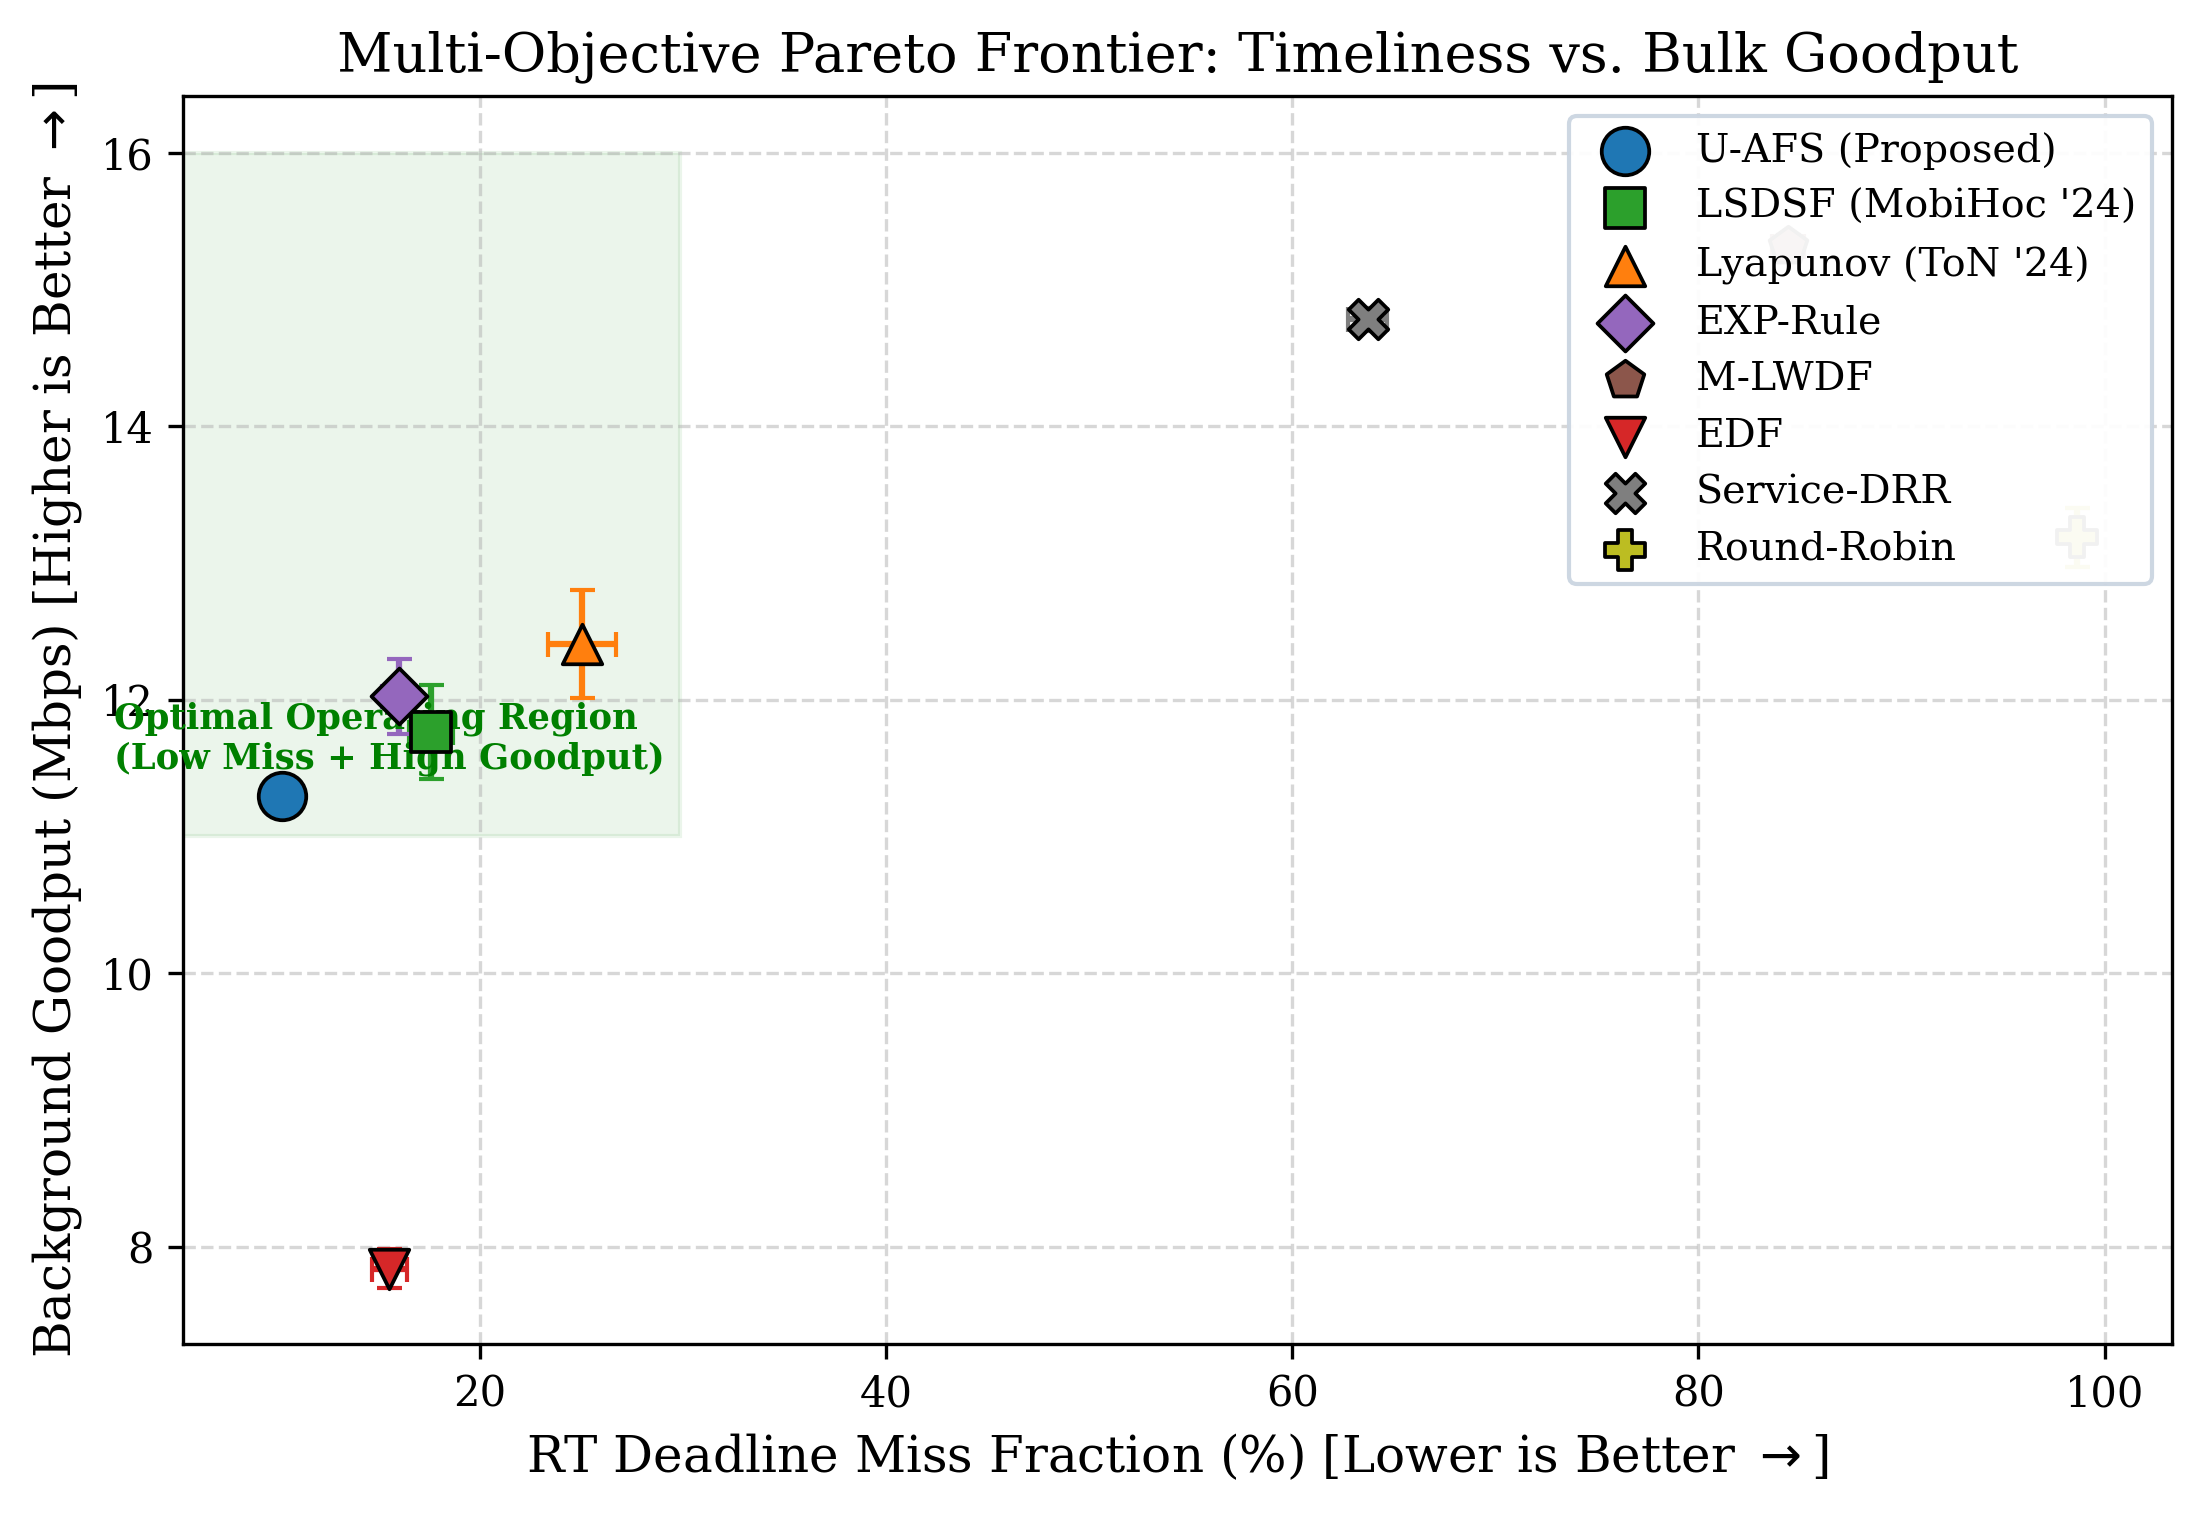
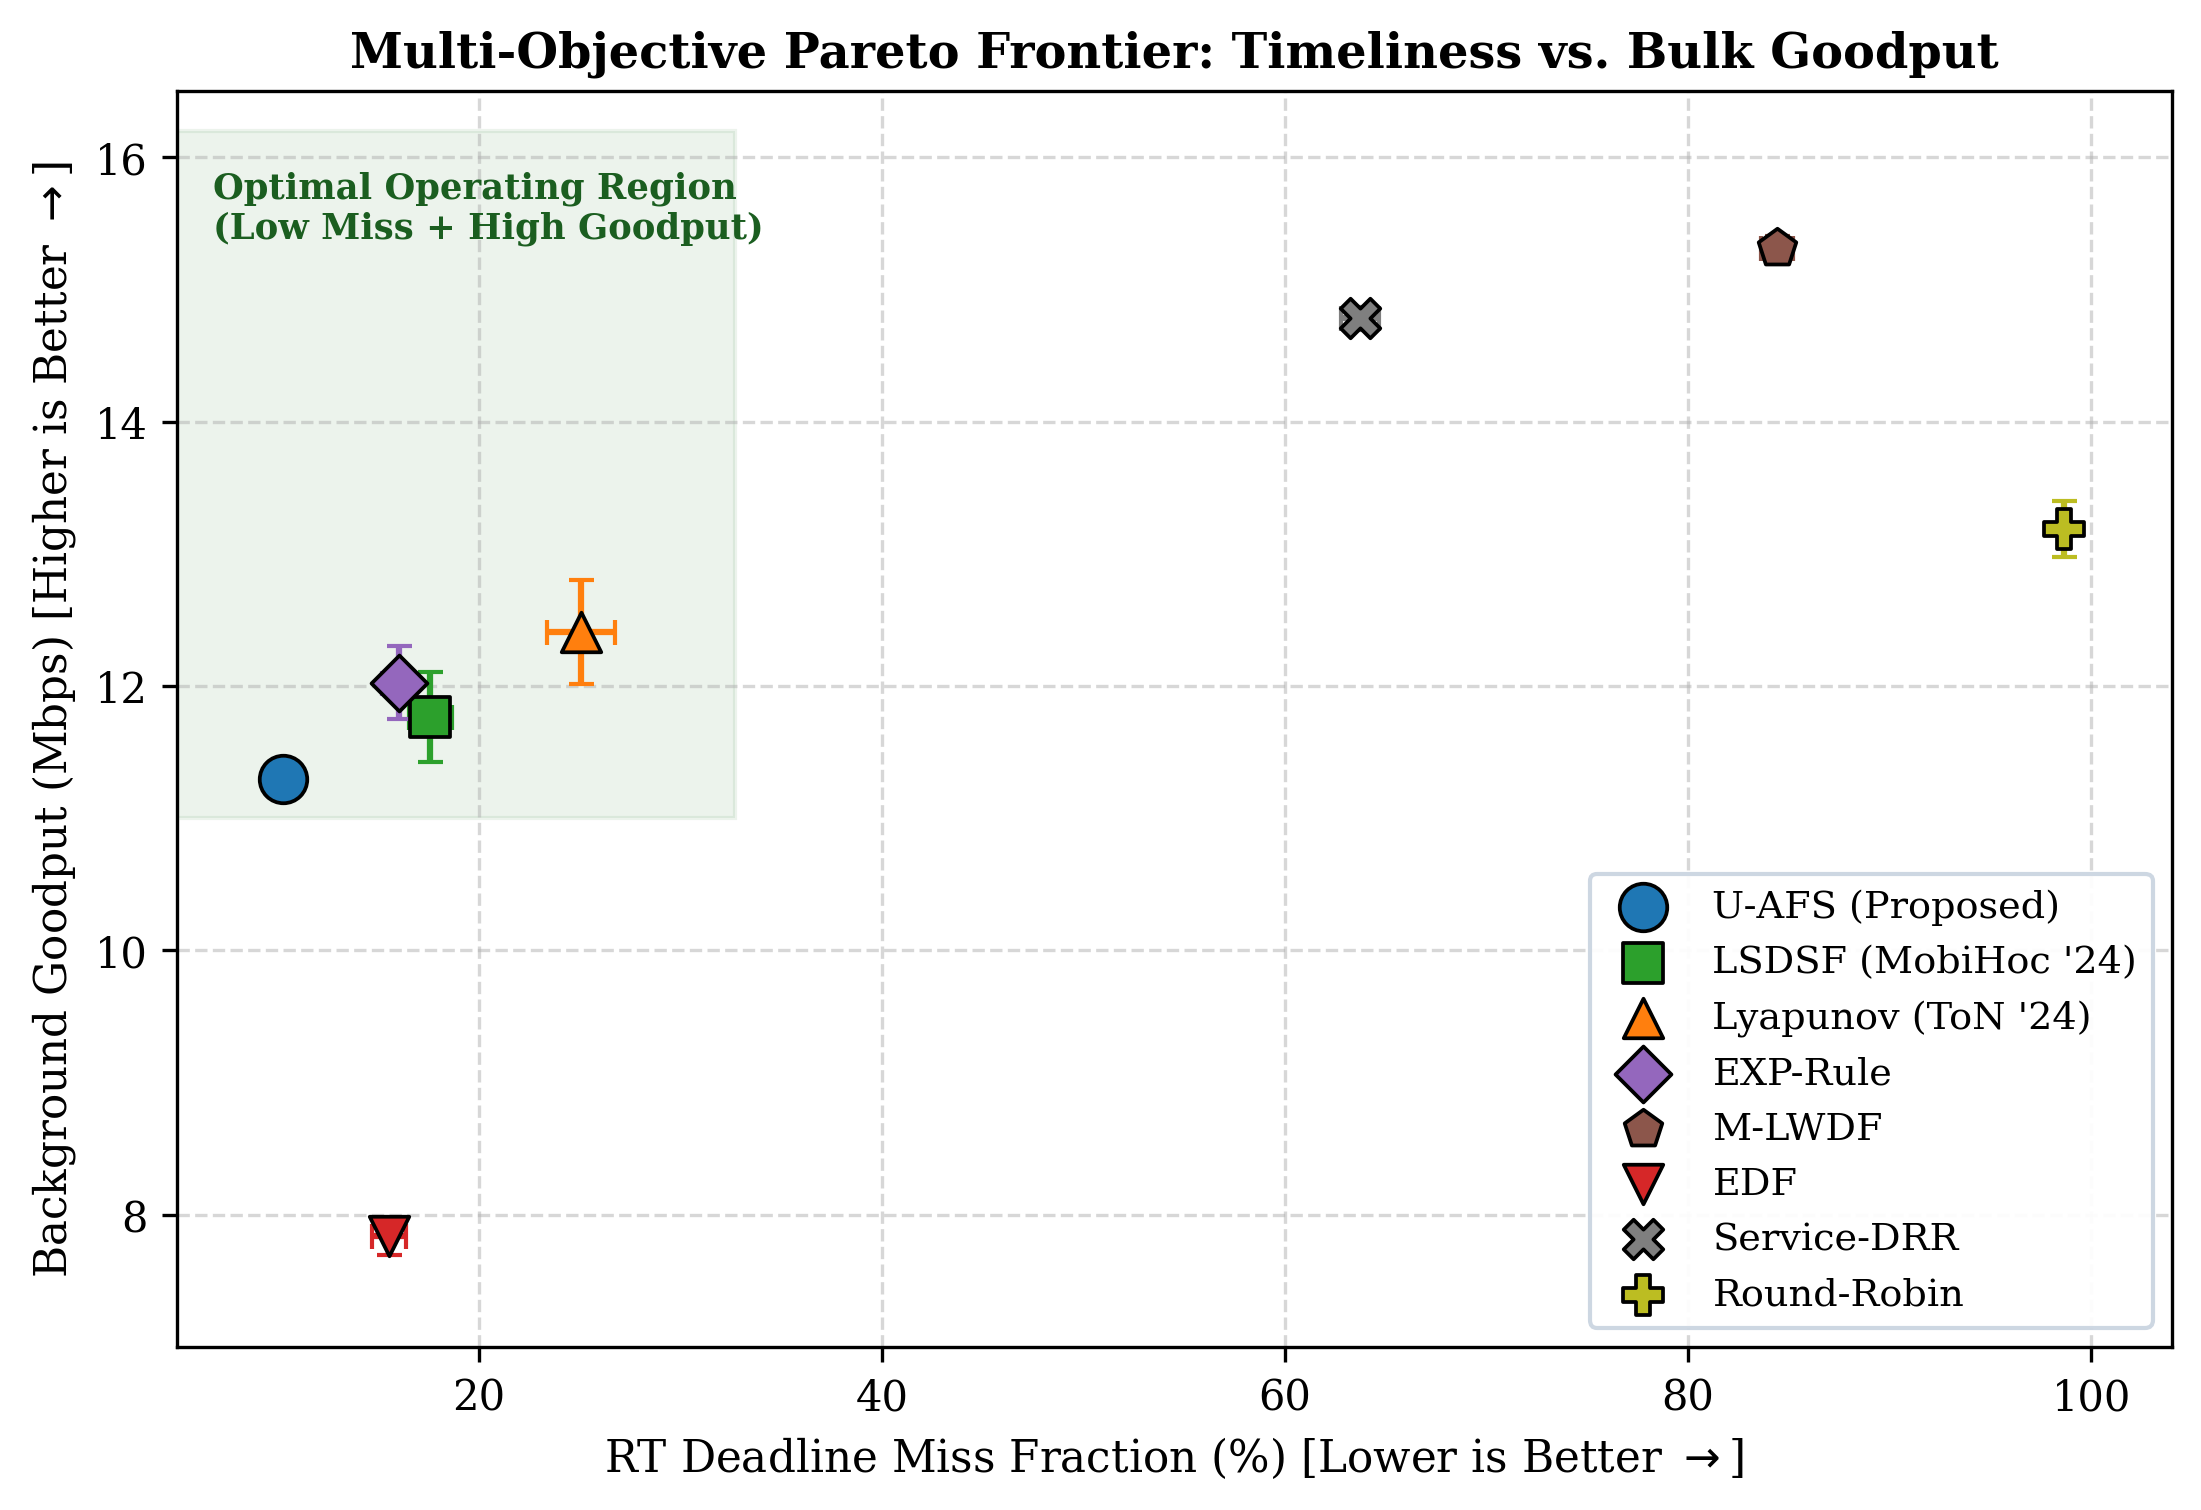
fix(figures): eliminate text overlap on Pareto scatter points and update docx figures

diff --git a/Uafs_updated_significant/code/render_significant_plots.py b/Uafs_updated_significant/code/render_significant_plots.py
@@ -19,8 +19,9 @@ import numpy as np
 import pandas as pd
 from scipy.interpolate import griddata
 
-RESULTS_DIR = Path("Uafs_updated_significant/results")
-FIGS_DIR = Path("Uafs_updated_significant/figures")
+ROOT_DIR = Path(__file__).resolve().parent.parent.parent
+RESULTS_DIR = Path(__file__).resolve().parent.parent / "results"
+FIGS_DIR = Path(__file__).resolve().parent.parent / "figures"
 FIGS_DIR.mkdir(parents=True, exist_ok=True)
 
 # Styling palette
@@ -318,19 +319,30 @@ def plot_fig6_pareto():
         ax.scatter(x_val, y_val, label=LABELS[pol], color=PALETTE[pol], marker=markers[pol], s=size, edgecolors="black", linewidths=0.9, zorder=zorder)
 
     # Invert x-axis concept: ideal point is (0% miss, high goodput)
-    ax.set_xlabel("RT Deadline Miss Fraction (%) [Lower is Better $\\rightarrow$]")
-    ax.set_ylabel("Background Goodput (Mbps) [Higher is Better $\\rightarrow$]")
-    ax.set_title("Multi-Objective Pareto Frontier: Timeliness vs. Bulk Goodput")
+    ax.set_xlabel(r"RT Deadline Miss Fraction (%) [Lower is Better $\rightarrow$]", fontsize=10.5)
+    ax.set_ylabel(r"Background Goodput (Mbps) [Higher is Better $\rightarrow$]", fontsize=10.5)
+    ax.set_title("Multi-Objective Pareto Frontier: Timeliness vs. Bulk Goodput", fontsize=11.5, fontweight="bold")
     ax.grid(True, linestyle="--", alpha=0.5)
-    ax.legend(loc="upper right", framealpha=0.95, edgecolor="#CBD5E1", fontsize=9.5)
     
-    # Annotate Pareto Optimal Region
-    ax.axhspan(11.0, 16.0, 0.0, 0.25, color="green", alpha=0.08)
-    ax.text(2, 11.5, "Optimal Operating Region\n(Low Miss + High Goodput)", color="green", fontsize=8.5, fontweight="bold")
+    # Place legend in lower right where no data points exist to prevent any occlusion
+    ax.legend(loc="lower right", framealpha=0.95, edgecolor="#CBD5E1", fontsize=9.2)
+    
+    # Annotate Pareto Optimal Region at the top of the shaded band, clear of all points
+    ax.set_ylim(7.0, 16.5)
+    ax.set_xlim(5.0, 104.0)
+    ax.axhspan(11.0, 16.2, 0.0, 0.28, color="#2E7D32", alpha=0.09)
+    ax.text(6.8, 15.9, "Optimal Operating Region\n(Low Miss + High Goodput)", color="#1B5E20", fontsize=8.5, fontweight="bold", va="top", ha="left")
 
     plt.tight_layout()
     fig.savefig(FIGS_DIR / "fig6_multimetric_pareto_frontier.pdf", bbox_inches="tight")
     fig.savefig(FIGS_DIR / "fig6_multimetric_pareto_frontier.png", dpi=300, bbox_inches="tight")
+    
+    # Also save to updated_submission/figures if directory exists
+    up_figs = ROOT_DIR / "updated_submission" / "figures"
+    if up_figs.exists():
+        fig.savefig(up_figs / "fig6_multimetric_pareto_frontier.pdf", bbox_inches="tight")
+        fig.savefig(up_figs / "fig6_multimetric_pareto_frontier.png", dpi=300, bbox_inches="tight")
+        
     plt.close(fig)
     print("Rendered fig6_multimetric_pareto_frontier")
 
